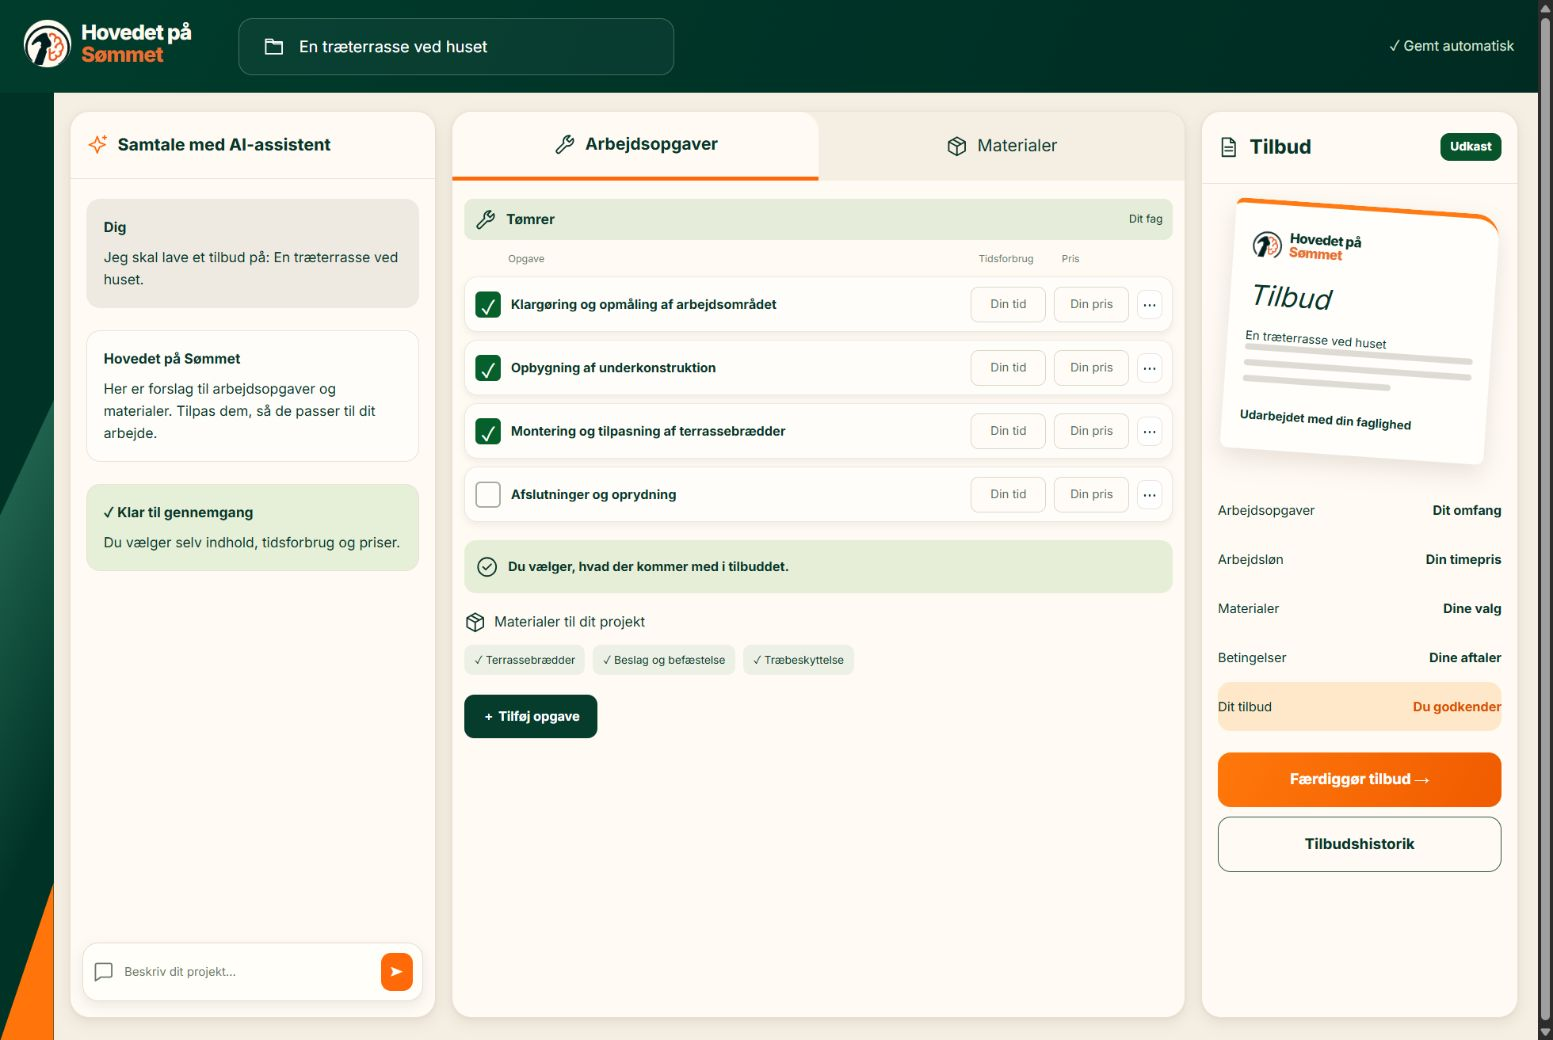
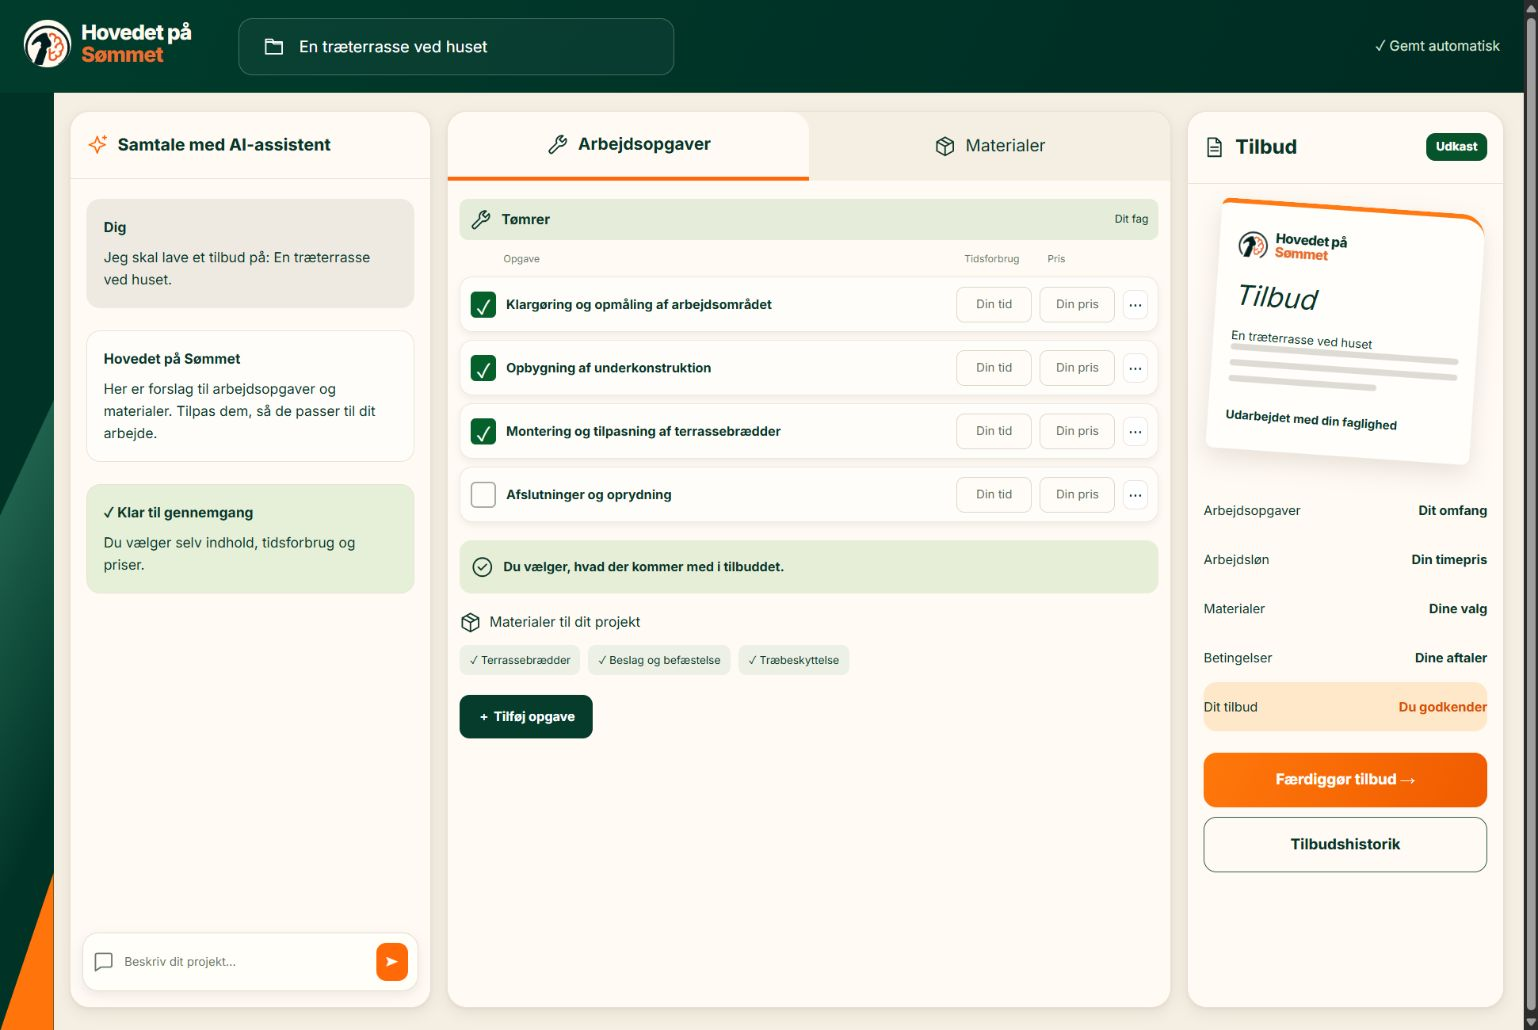
no message

diff --git a/src/app/app.routes.ts b/src/app/app.routes.ts
@@ -5,7 +5,6 @@ import { TRADE_PAGES } from './features/trades/trade-pages';
 import { LEGAL_PAGES } from './features/legal/legal-pages';
 
 export const routes: Routes = [
-  { path: '__marketing-assets', loadComponent: () => import('./marketing-asset-capture').then(m => m.MarketingAssetCapture) },
   {
     path: '',
     pathMatch: 'full',

diff --git a/docs/reference-redesign.md b/docs/reference-redesign.md
@@ -8,7 +8,7 @@ Implemented from the supplied homepage and workspace references:
 - Approval controls retain existing validation and saving guards. Switching tabs retains fields and includes accepted lines from both tabs in the total.
 - Mobile keeps the existing four-section navigation and shows the quotation summary in the quotation section.
 
-The current trade screenshots (`tilbud-*-v3.jpg`) and `workspace-v3.jpg` were captured locally from the actual quotation component with illustrative test data. They show the decorative green/orange rail without the former left navigation menu. Versioned filenames prevent stale browser caches. The temporary capture route and fixture were removed after verification. No live project data was modified.
+The public trade illustrations (`tilbud-*-flexible.jpg`) and `workspace-flexible.jpg` use a separate marketing mockup without concrete prices or time estimates. They retain the decorative green/orange rail without the former left navigation menu. See [marketing-examples.md](marketing-examples.md) for the complete asset replacement list. The temporary capture route was removed after verification. No live project data was modified.
 
 Validation: production build and SEO checks; two component tests covering tab changes, retained edits, totals and approval guards; browser checks of desktop/mobile layouts, tab keyboard navigation and totals updating on approval.
 
